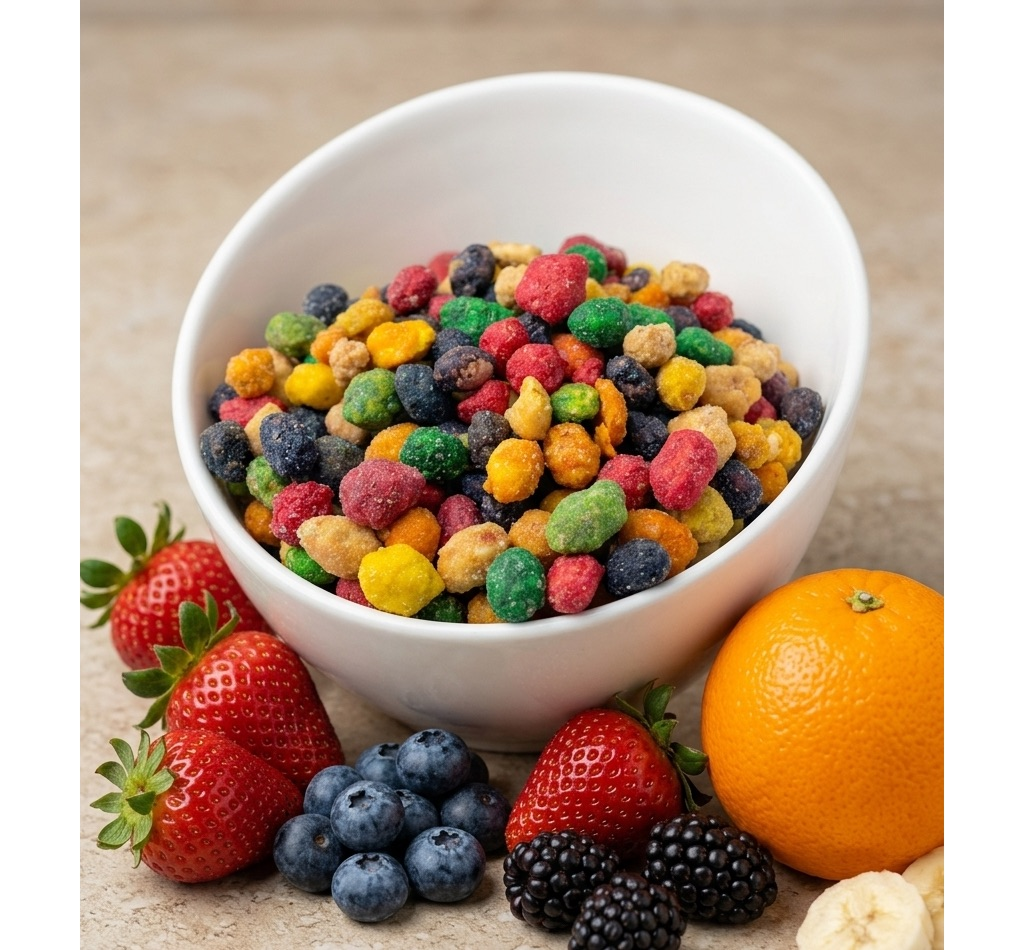
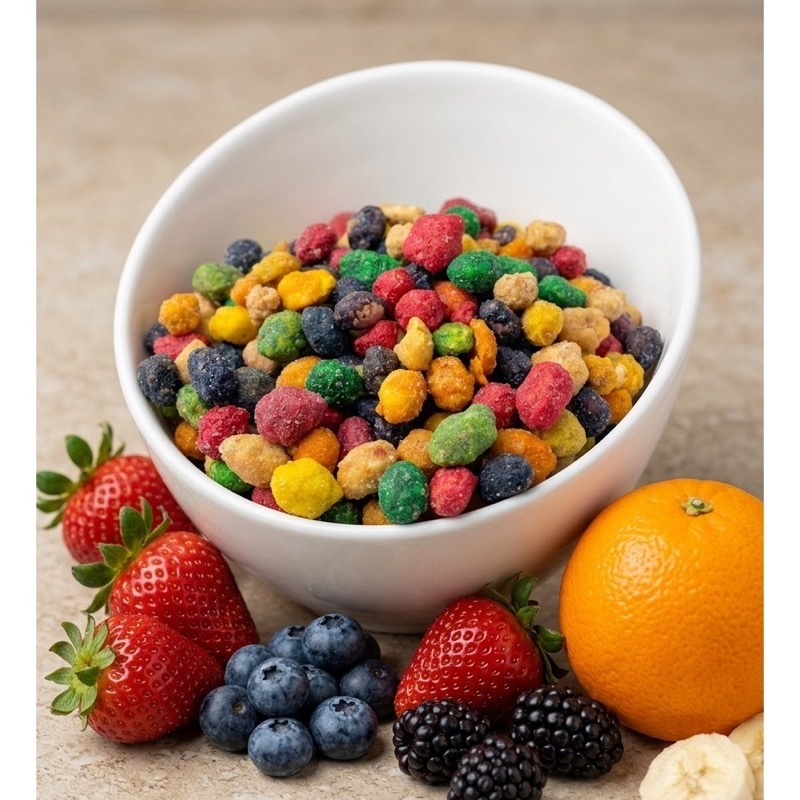
Uniform 800x800 square images + object-fit cover
All 6 product images cropped to identical 800x800px squares:
- Centered on the bowl/product
- Consistent composition across all products
- Compressed to 122-197KB each (total ~960KB vs 1.8MB before)

CSS: card-visual changed from aspect-ratio:4/5 + object-fit:contain
to aspect-ratio:1/1 + object-fit:cover — images now fill the card
completely without padding, creating a uniform grid.

diff --git a/catalogo.html b/catalogo.html
@@ -115,8 +115,8 @@ header{position:sticky;top:0;z-index:100;background:rgba(255,253,249,.9);backdro
 .card{border-radius:var(--r-lg);overflow:hidden;transition:transform .3s cubic-bezier(.34,1.56,.64,1);position:relative}
 @media(hover:hover){.card:hover{transform:translateY(-6px)}}
 .card:active{transform:scale(.97)}
-.card-visual{aspect-ratio:4/5;display:flex;align-items:center;justify-content:center;position:relative;overflow:hidden;padding:24px}
-.card-visual img{width:80%;max-width:280px;object-fit:contain;filter:drop-shadow(0 12px 24px rgba(0,0,0,.1));transition:transform .6s cubic-bezier(.16,1,.3,1)}
+.card-visual{aspect-ratio:1/1;display:flex;align-items:center;justify-content:center;position:relative;overflow:hidden}
+.card-visual img{width:100%;height:100%;object-fit:cover;transition:transform .6s cubic-bezier(.16,1,.3,1)}
 @media(hover:hover){.card:hover .card-visual img{transform:scale(1.06) rotate(-2deg)}}
 .card-num{position:absolute;top:12px;left:16px;font-family:'DM Serif Display',Georgia,serif;font-size:64px;opacity:.08;line-height:1;pointer-events:none}
 .card-badge{position:absolute;top:14px;right:14px;font-size:11px;font-weight:800;padding:6px 14px;background:var(--text);color:#fff;border-radius:var(--r-full)}

diff --git a/index.html b/index.html
@@ -115,8 +115,8 @@ header{position:sticky;top:0;z-index:100;background:rgba(255,253,249,.9);backdro
 .card{border-radius:var(--r-lg);overflow:hidden;transition:transform .3s cubic-bezier(.34,1.56,.64,1);position:relative}
 @media(hover:hover){.card:hover{transform:translateY(-6px)}}
 .card:active{transform:scale(.97)}
-.card-visual{aspect-ratio:4/5;display:flex;align-items:center;justify-content:center;position:relative;overflow:hidden;padding:24px}
-.card-visual img{width:80%;max-width:280px;object-fit:contain;filter:drop-shadow(0 12px 24px rgba(0,0,0,.1));transition:transform .6s cubic-bezier(.16,1,.3,1)}
+.card-visual{aspect-ratio:1/1;display:flex;align-items:center;justify-content:center;position:relative;overflow:hidden}
+.card-visual img{width:100%;height:100%;object-fit:cover;transition:transform .6s cubic-bezier(.16,1,.3,1)}
 @media(hover:hover){.card:hover .card-visual img{transform:scale(1.06) rotate(-2deg)}}
 .card-num{position:absolute;top:12px;left:16px;font-family:'DM Serif Display',Georgia,serif;font-size:64px;opacity:.08;line-height:1;pointer-events:none}
 .card-badge{position:absolute;top:14px;right:14px;font-size:11px;font-weight:800;padding:6px 14px;background:var(--text);color:#fff;border-radius:var(--r-full)}
